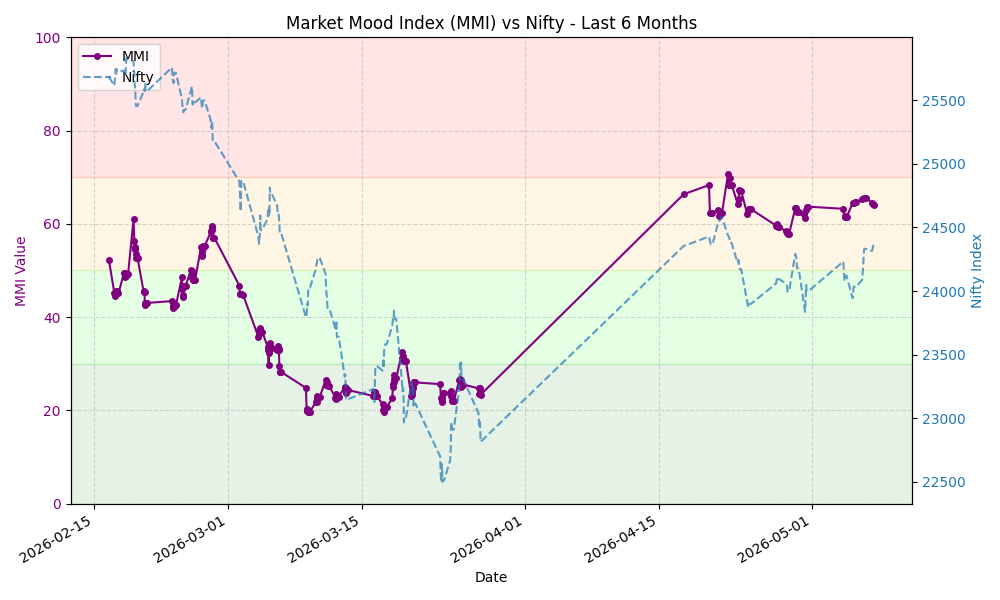
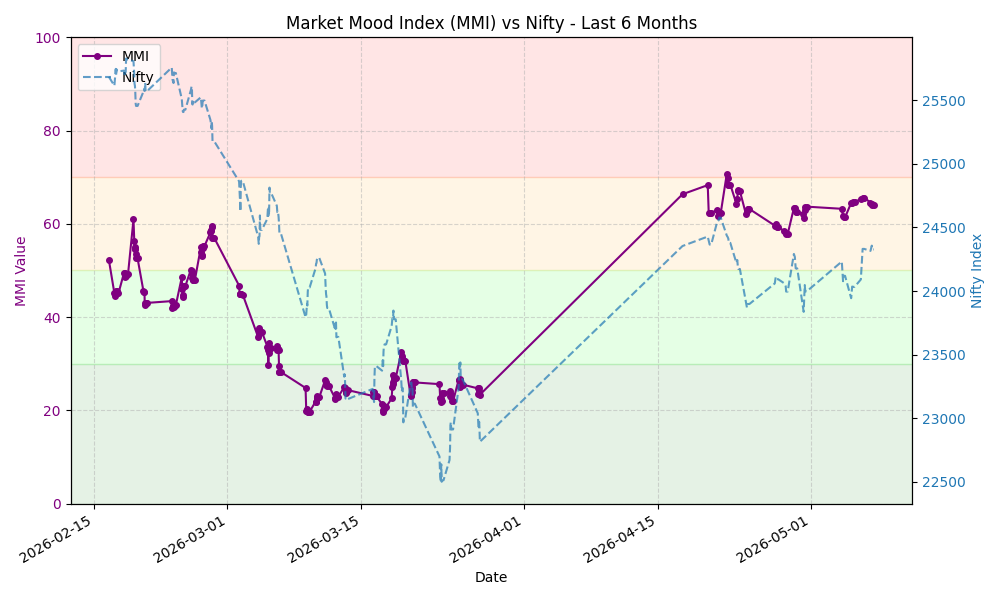
Update MMI data and chart

diff --git a/README.md b/README.md
@@ -8,7 +8,7 @@ This repository automatically fetches the MMI value, stores the history, and gen
 ## Latest MMI Value
 
 **64.09** - **Greed**
-<small>Last Updated: 2026-05-07 10:27 UTC</small>
+<small>Last Updated: 2026-05-07 14:20 UTC</small>
 
 ## MMI Trend (Last 30 Days)
 